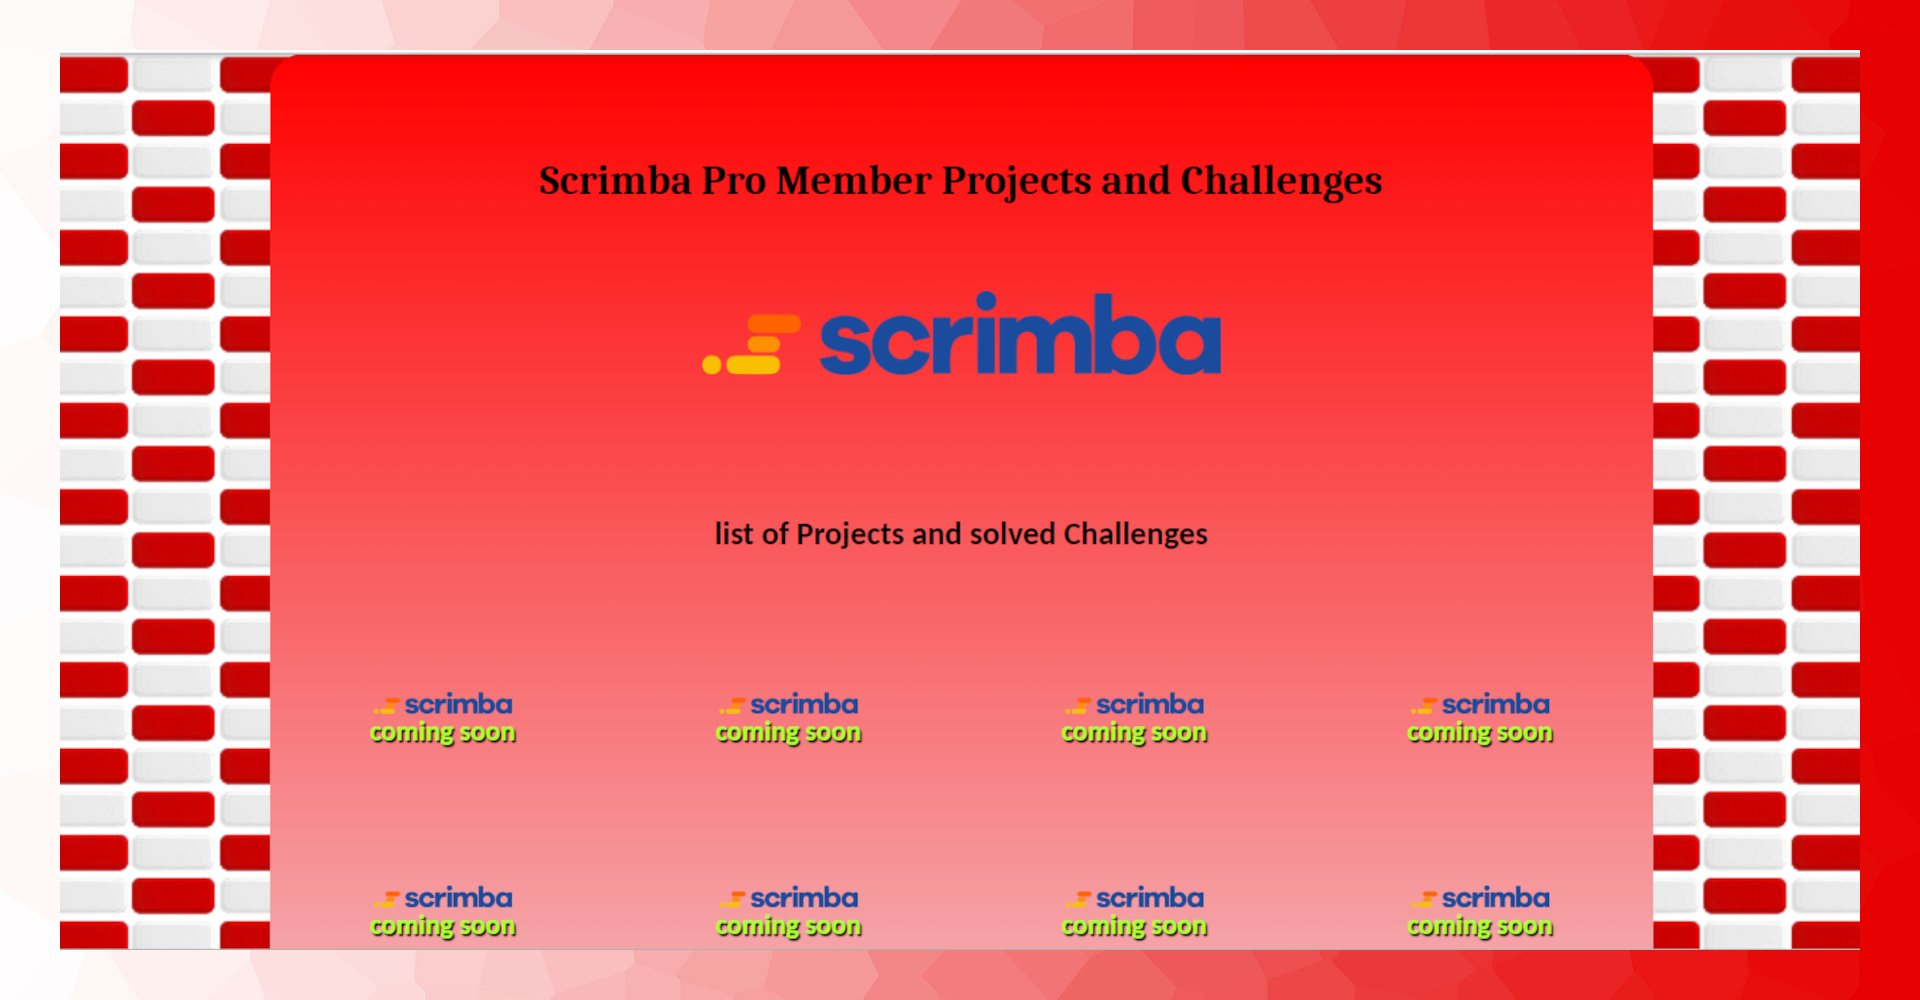
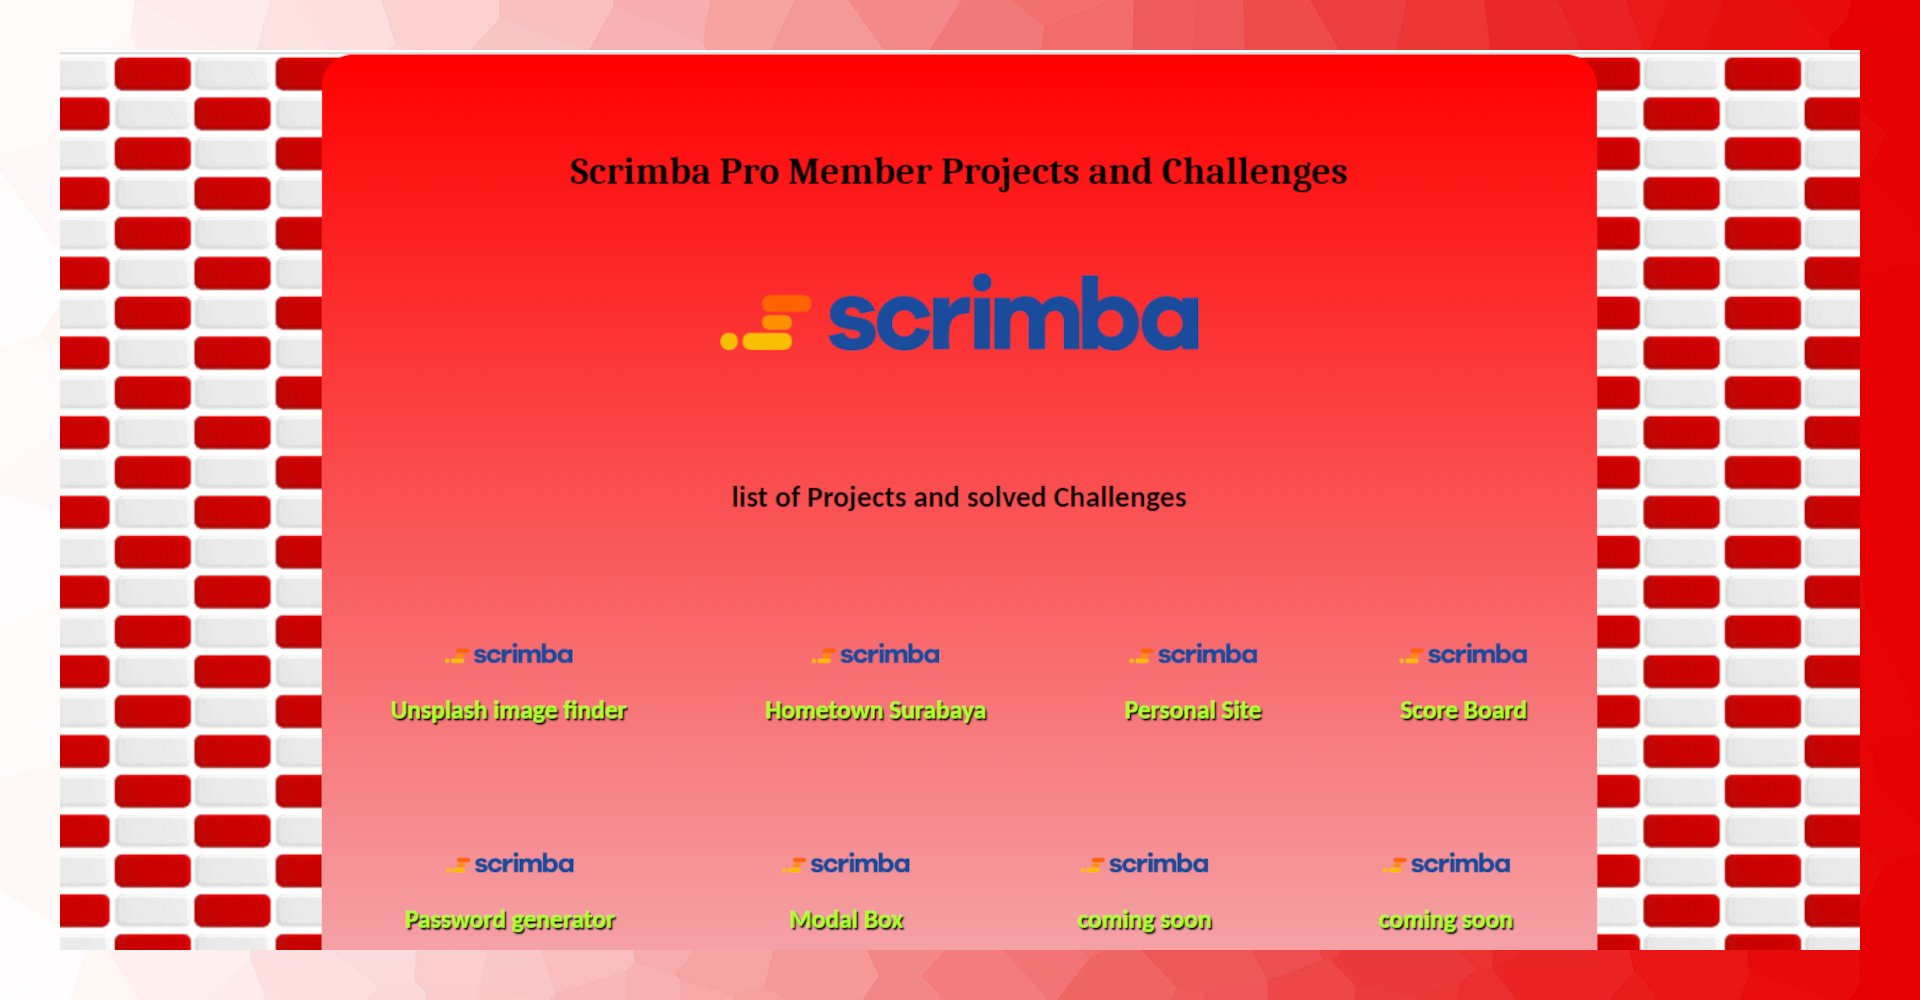
ass additional portfolio page

diff --git a/frameworks.html b/frameworks.html
@@ -1,0 +1,50 @@
+<!DOCTYPE html>
+<html lang="en">
+<head>
+  <meta charset="UTF-8">
+  <meta name="viewport" content="width=device-width, initial-scale=1.0">
+
+  <link rel="preconnect" href="https://fonts.googleapis.com">
+  <link rel="preconnect" href="https://fonts.gstatic.com" crossorigin>
+  <link href="https://fonts.googleapis.com/css2?family=Caladea:ital,wght@0,400;0,700;1,400&family=Carlito:ital,wght@0,400;0,700;1,400&display=swap" rel="stylesheet">
+
+  <link rel="stylesheet" type="text/css" href="style.css">
+
+  <title>Framework(s) base - Projects</title>
+</head>
+<body>
+  <div class="backHariSenin">
+    <section class="sectionF">
+      <!-- <h1>Full Stack Developer - Bootcamp</h1> -->
+      <img class="imgHeader" src="pic/fullStack.png" width="500px" alt="hsbc full stack">
+      <h3 class="subJudul">list of Framework base Projects</h3>
+      <div class="assignments">
+        <div class="assignInside">
+          <a href="https://todo-list-by-angular.netlify.app" target="_blank">
+            <img src="pic/angularLogo.png" width="80px" alt="hsbc full stack"><br><br>
+            <h4>to-do List</h4>
+          </a>
+        </div>
+        <div class="assignInside">
+          <a href="#" target="_blank">
+            <img src="pic/reactLogo.png" width="80px" alt="hsbc full stack"><br><br>
+            <h4>coming soon</h4>
+          </a>
+        </div>
+        <div class="assignInside">
+          <a href="#" target="_blank">
+            <img src="pic/vuejsLogo.png" width="90px" alt="hsbc full stack"><br><br>
+            <h4>coming soon</h4>
+          </a>
+        </div>
+        <div class="assignInside">
+          <a href="#" target="_blank">
+            <img src="pic/nodejsLogo.png" width="150px" alt="hsbc full stack"><br><br>
+            <h4>coming soon</h4>
+          </a>
+        </div>
+      </div>
+    </section>
+  </div>
+</body>
+</html>

diff --git a/style.css b/style.css
@@ -249,50 +249,6 @@ img {
   font-family: Carlito, arial;
 }
 
-/* .carousel-container {
-    width: 500px;
-    height: 300px;
-    overflow: hidden;
-    position: relative;
-    margin: auto;
-    border: solid #0277bd 10px;
-    border-radius: 20px;
-    box-sizing: border-box;
-  }
-  
-  .carousel {
-    display: flex;
-    width: fit-content;
-    height: 100%;
-    animation: slide 20s linear infinite;
-    cursor: pointer;
-  }
-  
-  .carousel:hover {
-    animation-play-state: paused;
-  }
-  
-  .carousel-image {
-    width: 550px;
-    flex-shrink: 0;
-    overflow: hidden;
-  }
-  
-  .carousel-image img {
-    width: 100%;
-    height: 100%;
-    object-fit: cover;
-  }
-
-  @keyframes slide {
-    0% {
-      transform: translateX(0);
-    }
-    100% {
-      transform: translateX(calc(-550px * 5));
-    }
-  } */
-
   .tabelGambar {
     /* border: solid 3px; */
     border-radius: 10px;
@@ -366,6 +322,11 @@ img {
 
 section {
   margin-top: 30px;
+  text-align: center;
+}
+
+.sectionF {
+  margin-top: -20px;
   text-align: center;
 }
 

diff --git a/index.html b/index.html
@@ -57,6 +57,11 @@
         <a href="fementor.html" target="_blank"><img src="img/image2.jpeg" style="width:100%"></a>
         <div class="text"></div>
       </div>
+      <div class="mySlides fade">
+        <div class="numbertext"></div>
+        <a href="frameworks.html" target="_blank"><img src="img/image4.jpeg" style="width:100%"></a>
+        <div class="text"></div>
+      </div>
       <a class="prev" onclick="plusSlides(-1)">&#10094;</a>
       <a class="next" onclick="plusSlides(1)">&#10095;</a>
     </div>
@@ -65,6 +70,7 @@
       <span class="dot" onclick="currentSlide(0)"></span>
       <span class="dot" onclick="currentSlide(1)"></span>
       <span class="dot" onclick="currentSlide(2)"></span>
+      <span class="dot" onclick="currentSlide(3)"></span>
     </div>
     
     <table class="tabelGambar">
